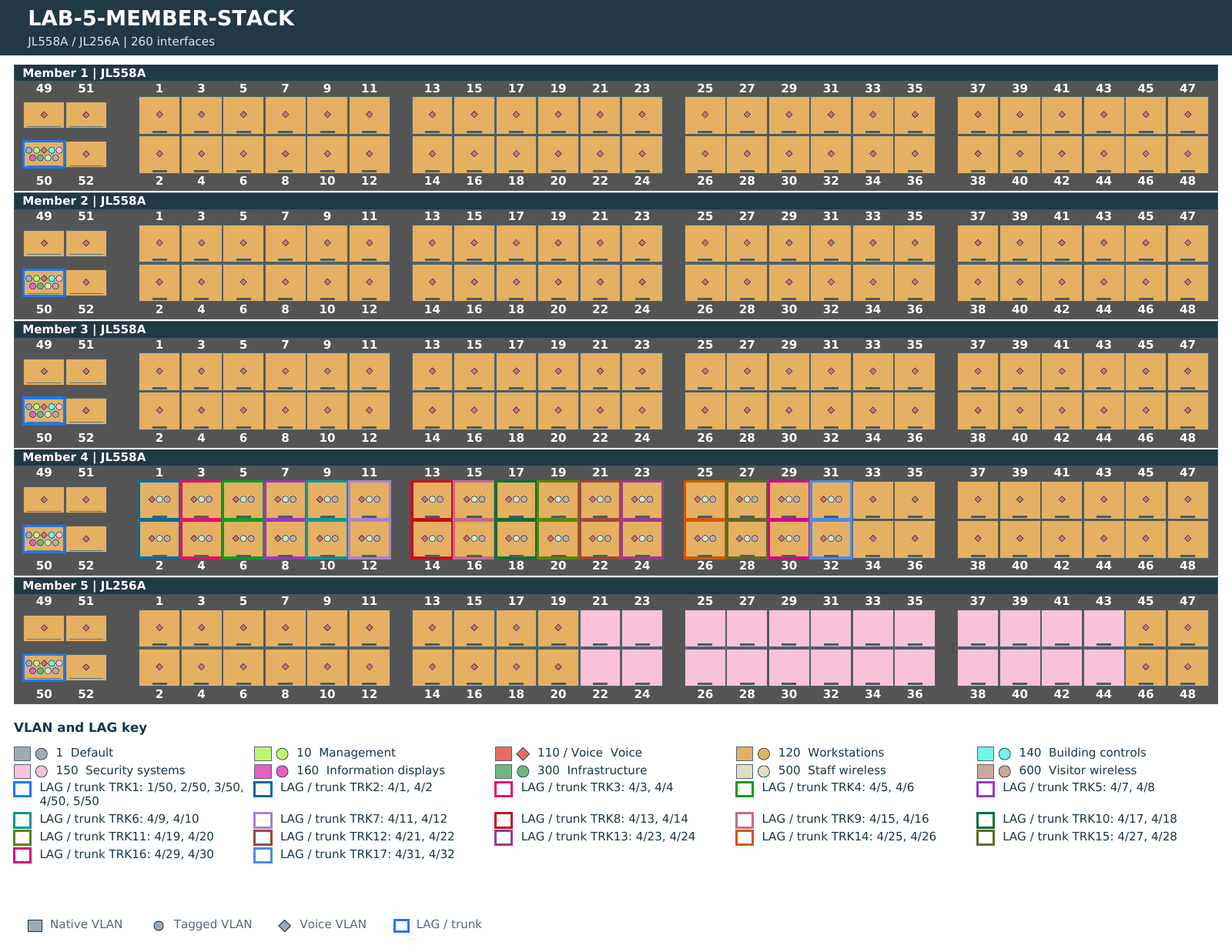
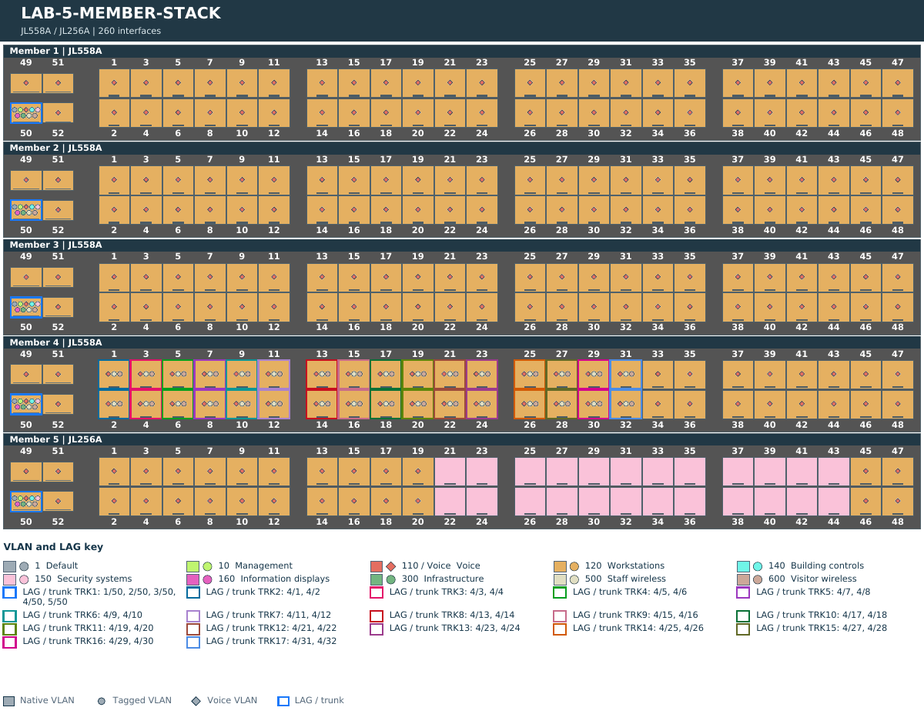
Keep automatic paper content fitted, fill port maps, and allow valid empty-panel placement

diff --git a/AGENTS.md b/AGENTS.md
@@ -45,6 +45,8 @@ Preserve file and category selection when importing supplemental observations. S
 
 Artwork and port points must share the same master bounds and nested transform. Reject unsupported vector geometry rather than silently drawing partial hardware. Keep core devices in the saved order, allocate route clearance before packing, and preserve both endpoints through cross-page references. Cable geometry must stay orthogonal, avoid unrelated chassis/modules, keep painted parallel segments separate, and retain jumps at crossings. Changes to routing require geometric checks plus rendered inspection. After mandatory physical clearance, prefer the shortest reasonable clear route with small crossing/bend penalties; do not favor a page-wide detour just to remove a crossing or bend. Evaluate bounded pair-local candidates even when the initial route is clear. Use actual moved peer positions for departures, reserve stroke-width-aware lanes, and reuse the route bank rather than rebuilding every route for each side alternative. Preserve clear straight facing-port routes. Remove redundant collinear points without collapsing a reversal through a chassis. Fit automatic titles around cables; explicitly placed text remains an obstacle. Internal handoff captions must not create a padded collision at their own port departure. Keep core and wireless link legends accurate and independently editable.
 
+Manual placement must use occupied information-panel footprints, never reserve the empty full-height divider column. Share a collision-adjusted delta across a rigid selection and use the same delta for its drag preview and commit. Keep actual overlap/routing validation.
+
 Edit drawing uses direct dragging and Shift selection, with alignment, equal spacing and undo/redo. Devices move as groups; Alt selects native details. Preserve glued endpoints when moving a cable or its bends. Bend operations must remain orthogonal; removal can straighten adjacent elbows but cannot detach ports. Endpoint selectors validate physical aliases as well as interface names, reroute on save and retain styling. Generated handoffs become explicit only on a saved endpoint edit. A materialized handoff must suppress its former inferred connection. Native Visio connectors carry the planner's jumps as EllipticalArcTo rows through each apex (so they show on open) and keep the page arc-jump settings; Visio replaces that geometry, with its own jumps, only when it reroutes a connector. Legend samples stay straight. SVG hops mask only crossed cable strokes so clearance reveals the actual background and artwork; a cable crossing a bundle of close parallel cables owns those jumps (otherwise the later cable jumps). layout.hopStyle chooses the look (Pages & layout, Line jumps): 'single' (default) draws one hop per crossed line, each sharing the room to its neighbors so a tight bundle shows small adjacent hops as Visio does; 'bundle' merges crossings closer than two jumps into one flatter bridge (half-ellipse, radii on the page axes). SVG, PDF, Visio and hit-testing use the same hops; caption backings must leave unrelated cable strokes and jump envelopes unmasked without reordering or replaying cables. Use the shared label-backings geometry for every export; project layout.labelBacking controls padding (0–20 drawing px, default 0.5) and white/transparent mode. Backings follow text ink rather than selection boxes, while saved text geometry remains untouched. The compact glyph metrics derive from bundled report fonts via scripts/generate-caption-font-metrics.py; keep native Visio backing fragments in their text shape. Automatic port labels prefer their own line, while pinned and cable-relative saved placements win;  Include hop envelopes when placing core labels/titles. Legends derive only from styles used on their own sheet. Preserve port mapper coordinates through zoom and clamp selected groups together at the panel edge. Keep display filtering independent of the faceplate inventory. Imported native text retains weight/alignment in both exports. Include text moved outside a panel in label obstacles. Repeated hardware on different continued sheets needs distinct edit scopes, with compatibility fallback for older keys. A port mapping operation changes only the selected sockets and can be undone. History records project deltas so endpoint/inventory changes, settings and port edits can be restored together; keep unchanged stencil image strings out of repeated snapshots. Undo all retains redo order and loading starts a new session history. Native text-input undo must not trigger project undo. Commit inline text before file saving or another pointer action. Pointer capture retargets the native double-click to the canvas; retain the original pointer target to resolve the actual editable element. Double-clicking text bypasses its parent group and opens inline editing. Box selection uses page coordinates and selects top-level groups unless Alt requests details. Snapping starts disabled, is persisted per project and preserves attached ports. Arrow nudges use exact configured/modifier steps even when snapping is enabled. Master filtering must retain hidden selections.
 
 Rejected inline edits must retain the connected editor, draft and visible error. Do not redraw the SVG on validation rollback when the existing scene already represents the valid state. Escape and detached-session cleanup must restore input. Bound label/title candidate generation to the visible page before allocating candidates, even when edited panel dimensions or anchors are extreme. Compact grouped port maps combine assignments across switches without dropping per-port peers, states or configured details; keep numeric range ordering and expanded/individual-row options. Port-number overlays share one measured box and font size across the panel, independent of jack form factor or digit count, and retain full interface names in metadata.
@@ -259,7 +261,7 @@ Use addEventListener('focusin', ...) for delegated HTML-viewer keyboard inspecti
 
 Information-panel sections without body content omit their headings and blank divider. Legacy emptySections:'explain' was the old normalized default and migrates to hide; only the new 'explain-opt-in' value requests diagnostic placeholders. Preserve explicit sectionContent, notes and nonblank manually edited body rows, using their original edit keys. A renamed heading alone does not create content. Blank route records must not manufacture a row. Verify all panel categories, page scopes, reopen and SVG/Visio/PDF output.
 The offline User guide is read-only and available before opening a project. Keep desktop Help/update behavior independent. Guide shortcuts open existing controls, never directly mutate the project. Maintain exact UI labels and honest paper/zoom/calibration/overflow explanations. Run tests/browser-user-guide.mjs for search, empty results, repeat open/close, settings cancellation and narrow-window coverage.
-Paper readability is measured from actual textLayout output in physical points, not zoom. The default minimum is 8 pt for editable top-level diagram captions, device details and connection/port labels. Scale the model uniformly to preserve routing/relative geometry; never enlarge isolated glyphs across neighbours. Explicit font-size edits, frozen page frames, native artwork and report typography retain their intent. Expose small-text/overflow notices and offer larger paper or continuation rather than claiming every topology fits. Docked paper panels compact unused row width, support an explicit usable-paper width percentage, and rewrap without dropping text. Custom width remains literal; dense content warns instead of shrinking beneath the chosen floor.
+Paper readability is measured from actual textLayout output in physical points, not zoom. The default minimum is 8 pt for editable top-level diagram captions, device details and connection/port labels. Scale the model uniformly to preserve routing/relative geometry; never enlarge isolated glyphs across neighbours. Explicit font-size edits, frozen page frames, native artwork and report typography retain their intent. Auto-fit must cap the proportional model transform to the available paper body even when the readable-size target is larger. Report the actual smaller text and offer larger paper or continuation, never push automatically fitted models off-page to meet a text target. Saved/manual frames still preserve deliberate off-page transformations. Docked paper panels compact unused row width, support an explicit usable-paper width percentage, and rewrap without dropping text. Custom width remains literal; dense content warns instead of shrinking beneath the chosen floor.
 Generic SFP front aspects follow INF-8074i 13.7:8.6 and QSFP follows SFF-8661 18.35:8.5. Keep existing schematic widths and anchors, RJ45 geometry, imported artwork and native edit keys. Derive fallback installed optics from the host socket form where available; module-legend insets must scale both axes uniformly. These are schematic proportions, not engineering-scale chassis claims. See docs/OPTICAL_GEOMETRY.md and tests/optical-proportions.test.mjs.
 
 Readable paper fit must check textLayout again on candidate scaled boxes because fixed padding/wrapping make rendered size nonlinear. Use bounded refinement, not source size times factor. Persist large valid fit frames consistently; minimum18pt at400% can exceed the former4x cap. Before warning about near-fit clipping, reclaim only outside whitespace down to2 physical-paper pixels without invading panel/header bands or changing frozen transforms. This inset is not a hardware printer-margin guarantee.
@@ -270,3 +272,7 @@ Wireless AP scale changes automatic AP bodies and their name/model/port/address/
 Wireless numeric labels on new, unedited physical sheets request the configured paper minimum during port-label planning (10.667 source px for 8pt) rather than forcing uniform growth of the entire switch. Dynamic, Preserve, authored geometry and legacy frozen layouts retain their old source geometry. New frames retain wirelessNumberScale so lock/reopen does not regenerate smaller labels; normalize this marker with both lockFrames and editFrames. Keep port-label capacity and required-width checks intact.
 
 Settings previews are transactional: Global text styles, Pages & layout and Page options render cloned candidates in a read-only split workspace, never in the authoritative canvas/project/history. Apply alone commits one history action. Cancel/Close/Escape and dialog replacement dispose queued work; stale generations and invalid drafts must not replace the last valid preview. Preserve preview zoom/pan during control changes and namespace SVG IDs so masks do not bind to the original drawing. Test real controls, failure, cancellation, pause/resume, scope changes, Undo/redo and narrow layout in browser-settings-preview.mjs. Do not claim other dialogs have live preview.
+
+Fresh locked adaptive port maps that already match the paper aspect get only a uniform physical-unit conversion, not another content/margin fit. Preserve saved lock/edit frames. A presented text label's minimum fitting size must scale down with its presentation fontScale so previously valid narrow text can fit a smaller physical sheet.
+
+Adaptive port maps use narrow chassis-safe gutters and full-bleed header backgrounds. Lock fixes the paper boundary, not a socket-size ceiling or extra quarter-inch border. Preserve old unmarked lock/edit-frame bases; new portMapFit:1 frames regenerate the edge-fill geometry. Keep this separate from standalone report/physical-printer margins and check five/eight-member plus chassis paper output after layout changes.

diff --git a/README.md b/README.md
@@ -63,13 +63,13 @@ Built-in optical sockets and generic installed optics use consistent, reference-
 **Review connection improvements before applying one undoable layout change.**
 <p align="center"><img src="docs/images/organize-connections.png" width="1000" alt="Organization preview with current and proposed cable length, bends, crossings and drawing footprint"></p>
 
-**Fit actual diagram bounds while keeping page headings readable.**
+**Fit complete diagram bounds inside the chosen paper while keeping page headings readable.**
 <p align="center"><img src="docs/images/paper-fit.png" width="900" alt="Actual generated Letter core diagram fitted to measured content bounds with readable site and documentation headings"></p>
 
 **Use more of each selected sheet with slimmer gutters and larger port maps.**
 <p align="center"><img src="docs/images/page-fill.png" width="900" alt="Actual generated Letter port map with a fictional five-member stack filling the available width and retaining its complete VLAN and LAG key"></p>
 
-**Keep dense wireless sheets readable with deliberate continuations.**
+**Choose readable wireless continuations when the complete drawing would make text too small.**
 <p align="center"><img src="docs/images/wireless-paper.png" width="900" alt="First of four actual generated readable Letter wireless sheets for a fictional eight-member stack with 32 uplinks; this continuation shows members 7 and 8 and eight uplinks"></p>
 
 
@@ -108,6 +108,8 @@ The releases index includes published previews. A pull request or local build ma
 
 ## How to use
 
+In Edit drawing, move devices into unused space below or beside a short information panel. Its actual content stays protected; the empty sidebar column is not reserved.
+
 Choose **User guide** in the top toolbar for searchable, offline step-by-step help. It explains paper and screen sizing, calibration, panel contents, editing, page locks and exports, with shortcuts to the relevant settings. Desktop **Help** remains the separate update/status control.
 
 In Edit drawing, select objects and choose [**Group**](docs/images/grouped-model-controls.png) to move or transform them together; **Ungroup** retains every position. Selecting a grouped member selects its group. Automatic link labels follow rerouted cables when selected with equipment, rather than becoming fixed obstacles during resizing. Explicit manual label placements remain fixed. Corner handles scale around a shared pivot, and the rotation handle rotates whole devices and text without flattening their native artwork. Unsupported native-detail rotations are rejected rather than distorted.
@@ -115,7 +117,7 @@ In Edit drawing, select objects and choose [**Group**](docs/images/grouped-model
 
 In Edit drawing, Ctrl+A (Command+A on macOS) selects diagram content without the information panel or page frame. Normal Select All remains available inside text fields. Scale, rotate and move selected content with Undo/redo; selecting or dragging the drawing does not select editor toolbar text.
 
-Auto-fit measures actual diagram content rather than carrying large empty source margins onto the selected paper. **Pages & layout → Minimum paper text (pt)** defaults to 8 for editable diagram labels and captions; choose Drawing defaults or an individual page, and use Text scale (%) to adjust lettering. A diagram that cannot fit at readable size warns about clipping instead of silently shrinking. Explicit font sizes, saved frames, native artwork and report typography are preserved. **Panel width (% of paper; 0 = automatic)** compacts short information panels automatically or rewraps them at a chosen 10–60% width. Generated site, title and documentation headings retain readable paper sizes. Wireless link-color keys retain readable paper text and pack into rows. Docked information panels use their own readable paper scale rather than shrinking with large diagrams, with space reserved beside the diagram. Very dense panels retain readable text and show an overflow warning; choose a larger sheet or fewer panel sections. Free-positioned and manually resized panel objects retain manual layout behavior. Older saved fitting frames show a prompt to open Page options and Save page options for the new readable fit; they are not silently rearranged. Once you deliberately move or resize objects, their accepted page frame is retained so Auto-fit does not cancel your transform; saving Page options recalculates the fit.
+Auto-fit measures actual diagram content rather than carrying large empty source margins onto the selected paper. **Pages & layout → Minimum paper text (pt)** defaults to 8 for editable diagram labels and captions; choose Drawing defaults or an individual page, and use Text scale (%) to adjust lettering. Choosing paper fits the entire automatic diagram inside the sheet. When the requested text minimum cannot fit, a warning reports the actual smaller text size; choose larger paper, fewer details or additional pages for readable printing. The target never forces automatic diagram content off-page. Explicit font sizes, saved frames, native artwork and report typography are preserved. **Panel width (% of paper; 0 = automatic)** compacts short information panels automatically or rewraps them at a chosen 10–60% width. Generated site, title and documentation headings retain readable paper sizes. Wireless link-color keys retain readable paper text and pack into rows. Docked information panels use their own readable paper scale rather than shrinking with large diagrams, with space reserved beside the diagram. Very dense panels retain readable text and show an overflow warning; choose a larger sheet or fewer panel sections. Free-positioned and manually resized panel objects retain manual layout behavior. Older saved fitting frames show a prompt to open Page options and Save page options for the new readable fit; they are not silently rearranged. Once you deliberately move or resize objects, their accepted page frame is retained so Auto-fit does not cancel your transform; saving Page options recalculates the fit.
 
 Page options can **Lock physical page size** when you explicitly check it. Selecting Letter or another paper size does not automatically lock it. A lock keeps the sheet dimensions and saved presentation frame, while moves and scaling can extend content off the page. Off-page content remains visible in Edit drawing; a warning explains that print/PDF and page-sized exports may clip it.
 
@@ -232,6 +234,8 @@ For mixed-size printing, retain the document paper sizes in your print/PDF setti
 The Windows edition checks its public GitHub feed at startup, every five minutes while online, and when the window regains focus after two minutes. The update bar stays hidden until a newer release is detected, leaving the full editor height available. Open **Help** in the existing app header for **Check updates**, **Update details** and **Notices**. Manual checks show progress and their result in that dialog, including connection errors or an up-to-date result. The result identifies both the installed and latest published versions. A local build ahead of the feed is identified explicitly. **Update details** provides the last timestamp, HTTP result and a copyable report. A lookup times out after 25 seconds; manual retries bypass transient automatic retry delays while respecting GitHub rate-limit pauses. **Download** retrieves and verifies an offered executable. **Install and restart** is a separate decision. Save your project before restarting.
 
 Windows stores its WebView profile, release cache, staged update and retained rollback copy under **%LOCALAPPDATA%\NetworkDiagramStudio**. Projects and exports go to the location selected in the save dialog. The browser edition updates by replacing its extracted HTML with a newer download. Site inputs are parsed locally. Saved project files and drawings can contain hostnames, addressing and the artwork you imported.
+
+> Port-map Auto-fit uses narrow edge gutters and a full-width header, including on newly locked pages. Physical printers may still require their own non-printable margins. Previously saved manual/locked layouts retain their geometry until you refit them.
 
 ## Troubleshooting
 

diff --git a/DEVELOPMENT_HANDOFF.md b/DEVELOPMENT_HANDOFF.md
@@ -1,3 +1,19 @@
+# Hosted settings-preview resize assertion
+
+Run217 passed19 of20 browser suites. The new settings suite passed draft isolation, Apply/Undo, invalid settings, pan/zoom and narrow dialog containment, then compared canvas HTML after resizing the browser against its pre-resize screen transform. The final cancellation assertion now ignores only the root SVG screen style; all page attributes and diagram shapes remain exact. Earlier cancellation assertions still compare full canvas HTML. Fresh hosted verification required.
+
+# Manual placement below information panels (preview.47 candidate)
+
+Direct drag/nudge and Place beside protect actual occupied panel item bounds,
+not an invisible full-height sidebar column. Empty space below/around a short
+key is available; decorative dividers and hidden/empty panels do not block it.
+A collision correction keeps the whole selected translation rigid and the drag
+preview uses the same correction as commit. Existing link-label/router validation
+remains enabled. Real sample movement, saved reopening, undo/redo and socket glue
+are covered by focused tests. Hosted direct-transforms adds actual drag preview /
+commit / saved-coordinate coverage; local Chromium cannot start because socket()
+is blocked, so that hosted gate remains required.
+
 # Preview.47 rebased local validation
 
 All666 Node tests pass with zero failures/skips on the source rebased to published .46; all9 independently checked Visio packages, offline build, repository guard and whitespace checks pass. Hosted20-suite browser/native verification and current split-dialog captures remain required. Newly reported Letter auto-fit and port-map-margin corrections are being developed separately; do not publish before their integration decision.
@@ -17,6 +33,16 @@ Focused local helper/control tests pass; final aggregate and hosted browser/nati
 Based on the final preview.46 source bd9a1c9. Global text styles, Pages & layout and Page options now offer isolated live previews beside resizable controls. Read-only preview pan/zoom persists through setting changes, automatic updates can be paused, invalid drafts retain the last valid view, and cancellation never changes project/history. Apply remains one history entry. The original editor stays inert during these dialogs; individual object, link-style and other property dialogs retain their previous save workflow. SVG IDs are namespaced to prevent masks resolving against the original canvas.
 
 Six scheduler/isolation and five real page-layout editor closure regressions pass locally. Tentative preview collection clones/restores both layout and captured page definition, preserving automatic device membership and manual geometry when reverted. Automatic preview pauses after a rebuild of 750 ms or longer; manual refresh and explicit re-enable remain available. This bounds repeated typing freezes, not the cost of the first synchronous rebuild. Syntax, build and repository guard pass locally. Actual browser launch is blocked by sandbox socket() permission, so the new hosted browser-settings-preview gate and its three synthetic captures remain required. It covers repeated changes, invalid Apply, last-valid retention, Cancel/Escape, Undo/redo, pan/zoom, scope rerender and narrow layout. No version bump or remote publication has been performed by this work.
+
+# Integrated Letter fit documentation verified
+
+Regenerated paper-fit.png and wireless-paper.png through the actual PDF exporter from integrated preview.47 source 6ad9218 and visually inspected both. The fictional core fits Letter with 10.25 pt minimum editable text; explicit wireless continuation remains four sheets, first sheet members 7/8 and eight uplinks at 8.59 pt. These are actual exported output, not UI mockups. Default dense one-sheet fitting can still require smaller text, with truthful warnings.
+
+# Letter/A4 complete paper fit correction (pending integration)
+
+Both reported core/wireless screenshots showed the preview.46 readable-size floor enlarging models beyond selected Letter. Auto-fit now caps the common transform to available paper space and reports the actual text size when the target is impossible. Headers and docked keys retain independent physical typography; source positions and cable glue remain proportional. Saved frames/manual off-page transforms remain unchanged. Presented narrow labels scale their text-fit floor with the page transform. Fresh locked adaptive port maps avoid a second margin wrapper.
+
+Synthetic dense wireless/core containment, portrait/landscape, lock/reopen and manual-frame cases added. Final aggregate/browser/native verification and documentation capture remain required. No user screenshots or customer data enter source.
 
 # Preview.46 hosted browser corrections verified
 
@@ -1232,3 +1258,9 @@ Pages & layout has Wireless APs and details (%) (25–400) and Wireless AP place
 The ordinary sample's Letter wireless pages now plan numeric label room before routing: both fit with at least 8.264pt actual text and no page overflow (switch width about 1031 physical px on a 1056px sheet). This removes a default 7.5pt-number-induced whole-switch enlargement, not all dense topology limits. New frame marker wirelessNumberScale preserves that plan across save/reopen; old frames remain compatible. Six focused AP tests and a synthetic side-column Visio package pass; full wireless aggregate and hosted browser validation are required on the combined head.
 
 Preview.46 documentation images were regenerated from the integrated source with synthetic inputs and visually inspected. paper-fit.png uses sampleSite on Letter; page-fill.png uses adaptiveProject('letter','landscape',5). wireless-paper.png now honestly shows the first of four explicit readable Letter continuations of the fictional eight-member/32-uplink fixture, not a tiny whole-topology fit. General text metrics measured 10.25pt on the core and 8.59pt on that wireless continuation; adaptive report typography remains preserved. The render helper is temporary, not a repository source dependency. Final hosted screenshots and full CI remain required.
+
+## Preview.47 adaptive port-map edge fill
+
+Fresh Auto-fit port maps use a 4 px chassis-safe gutter and a full-bleed header rather than a second locked-sheet border. Page lock no longer imposes the old reference socket-size ceiling; bank and complete key geometry still bound growth, preserving all members and socket proportions. Saved lock/edit frames without portMapFit:1 retain their legacy base so old manual coordinates do not jump. Fresh frames record the marker through the shared paper-fitting layer. Standalone report margins and Preserve mode are unchanged. Four-sided PDF printer hardware margins remain printer-dependent.
+
+Fictional five/eight-member and chassis Letter output was rendered through the actual PDF exporter and visually inspected; docs/images/page-fill.png is the current five-member output. Focused fresh-lock/save-reopen tests require the companion paper-fit correction. Hosted browser and native gates remain required before release.

diff --git a/docs/releases/0.1.0-preview.47.md b/docs/releases/0.1.0-preview.47.md
@@ -8,4 +8,14 @@ Changes are previewed from an isolated draft. Apply saves once and remains undoa
 
 This preview is not calibrated Actual size. Use the main canvas calibration/Actual size controls for physical paper checks. Page options previews visible-page geometry, not the separate print-paper projection. Large layout recalculations can take time. The new preview covers these three settings dialogs, not every application menu.
 
+## Keep automatic diagrams on the selected paper
+
+Automatic Letter/A4 fitting now keeps the complete core or wireless diagram inside the sheet instead of enlarging it beyond the page to meet the text target. If the target cannot fit, the app reports the actual smaller text size so you can choose larger paper or continuation sheets. Headers and docked keys retain their independent paper sizing. Deliberate manual off-page transforms and saved frames are preserved.
+
+Fresh adaptive port maps use smaller edge gutters and no artificial locked-page socket-size ceiling. Hardware and its key fill more of the selected sheet without a second margin fit. Existing saved frames are retained to avoid moving authored content: use Page options, choose Letter/Auto-fit, and Save page options to deliberately recalculate a previously oversized or heavily padded sheet.
+
+## Use empty space below the information panel
+
+Moving a device or group now checks the panel’s actual occupied area rather than reserving an invisible full-height sidebar. Valid placement below a short key no longer snaps back; drag previews and committed positions agree. Real panel contents, cable routing and label collision checks remain protected, with Undo/redo and save/reopen preserved.
+
 Save your project before updating.
